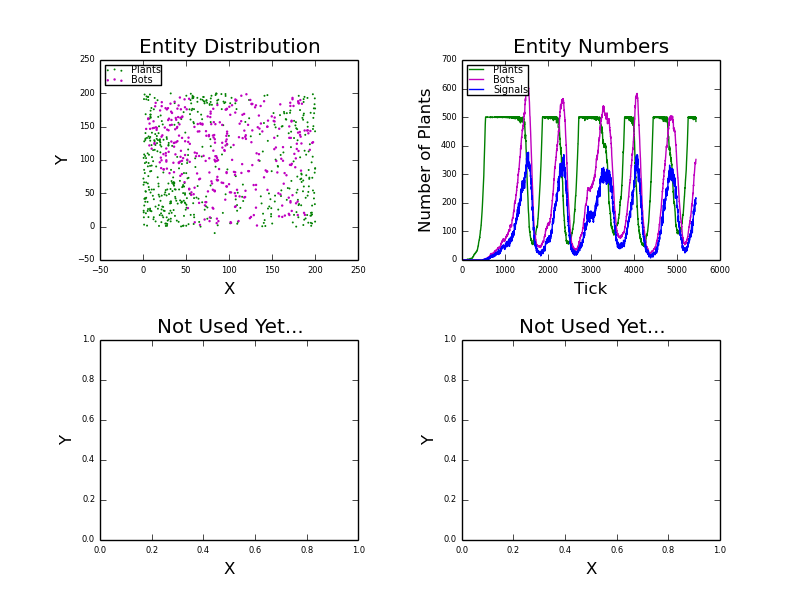
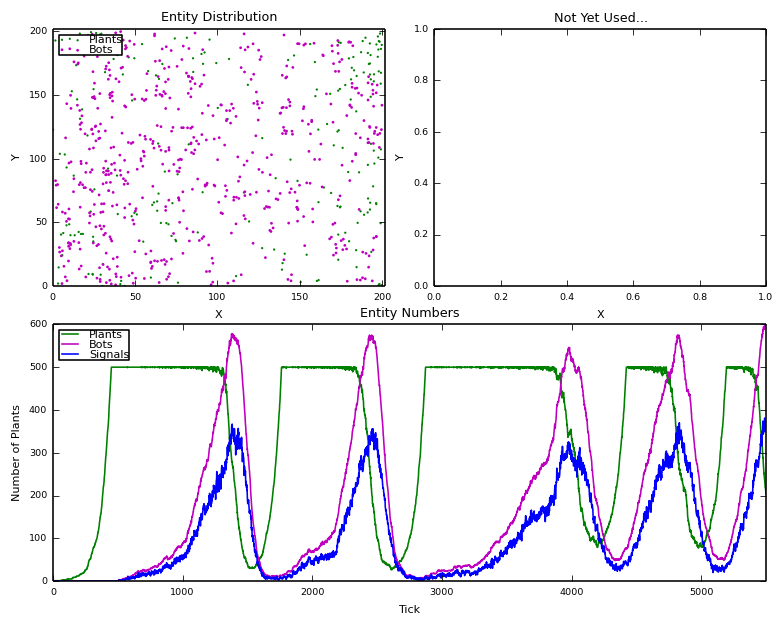
Replaced add_bot and add_plant with add_entity in World and replaced their uses. add_entity also handles signals now. World now keeps a tick counter. Entities now have an attribute for their birthday tick and age in ticks. Improved the graphs output by SimulationData. Got rid of one of the unused gr

diff --git a/simulation.py b/simulation.py
@@ -1,5 +1,6 @@
 import os
 from matplotlib import pyplot as plt
+import matplotlib.gridspec as gridspec
 import time
 import pygame
 from scipy.spatial import cKDTree
@@ -9,6 +10,7 @@ from sim_entities import *
 
 class World:
     def __init__(self, bot_limit=None, plant_limit=None, boundary_sizes=None, energy_pool=None):
+        self.tick_number = 0
         self.bots = []
         self.plants = []
         self.signals = []
@@ -20,6 +22,7 @@ class World:
         self.all_entities = []
 
     def step(self):
+        self.tick_number += 1
         # Update the list of all entities
         self.aggregate_entities()
         # Build a new kd tree to account for movement from the last tick
@@ -42,19 +45,33 @@ class World:
                         entity.y = entity.y % self.boundary_sizes[1]
                     entity.step()
 
-
-    def add_bot(self, bot):
-        if (self.bot_limit and len(self.bots) >= self.bot_limit) or bot.energy == 0:
+    def _add_plant(self, plant):
+        if self.plant_limit and len(self.plants) >= self.plant_limit:
             return False
-        else:
-            bot.world = self
-            self.bots.append(bot)
-
-    def add_plant(self, plant):
-        if (self.plant_limit and len(self.plants) >= self.plant_limit) or plant.energy == 0:
-            return False
-        plant.world = self
         self.plants.append(plant)
+
+    def _add_bot(self, bot):
+        if self.bot_limit and len(self.bots) >= self.bot_limit:
+            return False
+        self.bots.append(bot)
+
+    def _add_signal(self, signal):
+        self.signals.append(signal)
+
+    def add_entity(self, entity):
+        # Note: add energy to entities before adding them, or they will be refused.
+        if entity.energy == 0:
+            return False
+        if isinstance(entity, Signal):
+            self._add_signal(entity)
+        elif isinstance(entity, Plant):
+            self._add_plant(entity)
+        elif isinstance(entity, Bot):
+            self._add_bot(entity)
+        else:
+            raise ValueError("%s is %s. Must be either a Signal, Plant, or Bot" % (entity, type(entity)))
+        entity.world = self
+        entity.birthday = self.tick_number
 
     def aggregate_entities(self):
         self.all_entities = []
@@ -144,11 +161,11 @@ def no_graphics_run(world, plant_growth_ticks, additional_ticks, collect_data=Tr
                 print(" Finished Tick %d / %d" % (tick, ticks))
 
     center = world.boundary_sizes[0]/2, world.boundary_sizes[1]/2
-    world.add_plant(Plant(center[0], center[1], 50))
+    world.add_entity(Plant(center[0], center[1], 50))
     print("Running %s ticks with just plants..." % plant_growth_ticks)
     run(plant_growth_ticks, with_bots=False)
     behavior = create_basic_intelligence()
-    world.add_bot(Bot(center[0], center[1], 300, behavior))
+    world.add_entity(Bot(center[0], center[1], 300, behavior))
     print("Running %s ticks with bots added..." % additional_ticks)
     run(additional_ticks, with_bots=True)
     if sim_data:
@@ -170,42 +187,55 @@ class SimulationData:
     def graph_results(self):
         print("Creating Graph...")
         # Create some graphs to get a sense of what's going on
+        grid = gridspec.GridSpec(2, 2)
+        sub_graph_title_size = 8
+        axes_text_size = 7
+        legend_font_size = 7
+        axes_tick_font_size = 6
+
         graph = plt.figure()
-        graph.subplots_adjust(wspace=0.4)
-        graph.subplots_adjust(hspace=0.4)
-        entity_dist = graph.add_subplot(2, 2, 1)
+        graph.subplots_adjust(wspace=0.15)
+        graph.subplots_adjust(hspace=0.15)
+
+        entity_dist = graph.add_subplot(grid[0, 0])
         entity_dist.scatter([plant.x for plant in self.world.plants], [plant.y for plant in self.world.plants],
                             s=2, lw=0, label='Plants', c='g')
         entity_dist.scatter([bot.x for bot in self.world.bots], [bot.y for bot in self.world.bots],
                             s=3, lw=0, label='Bots', c='m')
-        entity_dist.legend(loc='upper left', labelspacing=0, borderpad=0, prop={'size': 7})
-        entity_dist.set_xlabel('X')
-        entity_dist.set_ylabel('Y')
+        entity_dist.legend(loc='upper left', labelspacing=0, borderpad=0, fontsize=legend_font_size)
+        x_limits = 0, self.world.boundary_sizes[0]
+        y_limits = 0, self.world.boundary_sizes[1]
+        if self.world.boundary_sizes:
+            # Since the world has no bounds, find the spatial span of the entities
+            x_points = [point.x for point in self.world.all_entities]
+            y_points = [point.y for point in self.world.all_entities]
+            x_limits = min(x_points), max(x_points)
+            y_limits = min(x_points), max(y_points)
+        entity_dist.set_xlim(x_limits)
+        entity_dist.set_ylim(y_limits)
+        entity_dist.set_xlabel('X', size=axes_text_size)
+        entity_dist.set_ylabel('Y', size=axes_text_size)
 
-        entity_nums = graph.add_subplot(2, 2, 2)
-        entity_nums.set_xlabel('Tick')
-        entity_nums.set_ylabel('Number of Plants')
-        for entity_list, name, color in ((self.plant_numbers, 'Plants', 'g'),
-                                         (self.bot_numbers, 'Bots', 'm'),
+        entity_nums = graph.add_subplot(grid[1, :])
+        entity_nums.set_xlabel('Tick', size=axes_text_size)
+        entity_nums.set_ylabel('Number of Plants', size=axes_text_size)
+        for entity_list, name, color in ((self.plant_numbers, 'Plants', 'g'), (self.bot_numbers, 'Bots', 'm'),
                                          (self.signal_numbers, 'Signals', 'b')):
             entity_nums.plot(range(0, len(entity_list)), entity_list, label=name, c=color)
-        entity_nums.legend(loc='upper left', labelspacing=0, borderpad=0, prop={'size': 7})
+        entity_nums.legend(loc='upper left', labelspacing=0, borderpad=0, fontsize=legend_font_size)
+        entity_nums.set_xlim((0, self.world.tick_number))
 
-        bot_dist = graph.add_subplot(2, 2, 3)
-        bot_dist.set_xlabel('X')
-        bot_dist.set_ylabel('Y')
-
-        bot_nums = graph.add_subplot(2, 2, 4)
-        bot_nums.set_xlabel('X')
-        bot_nums.set_ylabel('Y')
+        unused_graph = graph.add_subplot(grid[0, 1])
+        unused_graph.set_xlabel('X', size=axes_text_size)
+        unused_graph.set_ylabel('Y', size=axes_text_size)
 
         # Make all subplot axes tick labels smaller and give them a title
         for subplot, title in [(entity_dist, 'Entity Distribution'), (entity_nums, 'Entity Numbers'),
-                               (bot_dist, 'Not Used Yet...'), (bot_nums, 'Not Used Yet...')]:
-            subplot.tick_params(labelsize=6)
-            subplot.set_title(title)
+                               (unused_graph, 'Not Yet Used...')]:
+            subplot.tick_params(labelsize=axes_tick_font_size)
+            subplot.set_title(title, size=sub_graph_title_size)
         print("Saving Graph...")
-        graph.savefig(os.getcwd() + os.sep + 'graphs' + os.sep + 'simulation.png', dpi=100)
+        graph.savefig(os.getcwd() + os.sep + 'graphs' + os.sep + 'simulation.png', dpi=115, bbox_inches='tight')
 
 
 class GraphicalSimulation:
@@ -222,7 +252,7 @@ class GraphicalSimulation:
         tick = 0
         self.world = world
         # Run the simulation to get plants spread out
-        self.world.add_plant(Plant(screen_width/2, screen_height/2, 5))
+        self.world.add_entity(Plant(screen_width/2, screen_height/2, 5))
         if collect_data:
             sim_data = SimulationData(self.world)
         else:
@@ -233,7 +263,7 @@ class GraphicalSimulation:
                 sim_data.poll_world_for_data()
         # Add a bot and display the simulation
         behavior = create_basic_intelligence()
-        self.world.add_bot(Bot(screen_width/2, screen_height/2, 250, behavior))
+        self.world.add_entity(Bot(screen_width/2, screen_height/2, 250, behavior))
         while running:
             for event in pygame.event.get():
                 if event.type == pygame.QUIT:
@@ -267,7 +297,7 @@ class GraphicalSimulation:
                 pygame.draw.ellipse(screen, signal_color, (left, top, diameter, diameter), 1)
             tick += 1
             pygame.display.update()
-            self.clock.tick(30)
+            self.clock.tick(15)
             # If we have no more entities then end the simulation
             if len(self.world.bots) == 0 or len(self.world.all_entities) == 0:
                 running = False
@@ -286,5 +316,5 @@ if __name__ == '__main__':
     print("Starting Simulation...")
     start_time = time.time()
     earth = World(plant_limit=500, boundary_sizes=(200, 200))
-    run_simulation(earth, 500, 1000, graphics=True)
+    run_simulation(earth, 500, 5000, graphics=False)
     print("Elapsed seconds:", time.time() - start_time)

diff --git a/sim_entities.py b/sim_entities.py
@@ -6,14 +6,17 @@ import numpy as np
 
 class BaseSimulationEntity:
     def __init__(self, x, y, energy):
-        self.name = 'BaseEntity'
+        self.name = 'entity'
         self.world = None
         self.x = x
         self.y = y
         self.energy = energy
         self.dead = False
+        self.birthday = None
+        self.age = 0
 
     def step(self):
+        self.age += 1
         self.world.drain_energy_from_entity(1, self)
         if self.energy < 1:
             self.dead = True
@@ -47,7 +50,7 @@ class Bot(BaseSimulationEntity):
         self.behavior_tree.step(self)
         # Check if the bot has created a new signal
         if self.signal and self.signal not in self.world.signals:
-            self.world.signals.append(self.signal)
+            self.world.add_entity(self.signal)
         super().step()
 
     @staticmethod
@@ -65,7 +68,7 @@ class Bot(BaseSimulationEntity):
         child.behavior_tree.current_behavior_node = child.behavior_tree.behavior_nodes[0]
         bot.world.transfer_energy_between_entities(bot.child_investment, donor=bot, recipient=child)
         # print("%s spawned %s" % (str(bot), str(child)))
-        bot.world.add_bot(child)
+        bot.world.add_entity(child)
 
     @staticmethod
     @statement
@@ -173,7 +176,7 @@ class Plant(BaseSimulationEntity):
                 # Create a baby plant and give it energy from the parent
                 baby_plant = Plant(child_x, child_y, 0)
                 self.world.transfer_energy_between_entities(self.child_investment, donor=self, recipient=baby_plant)
-                self.world.add_plant(baby_plant)
+                self.world.add_entity(baby_plant)
 
 
 class Signal(BaseSimulationEntity):
